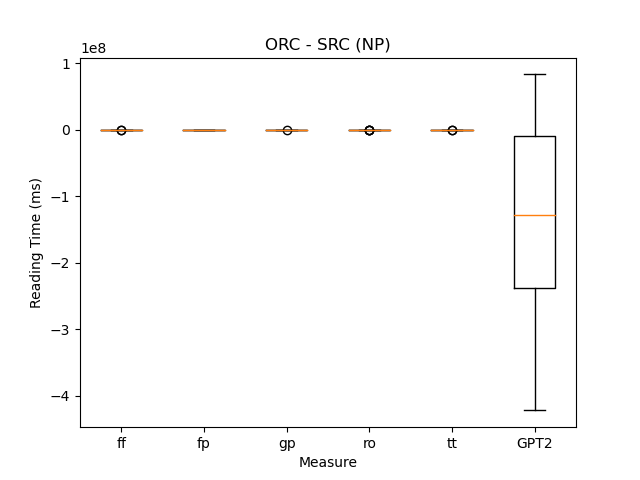
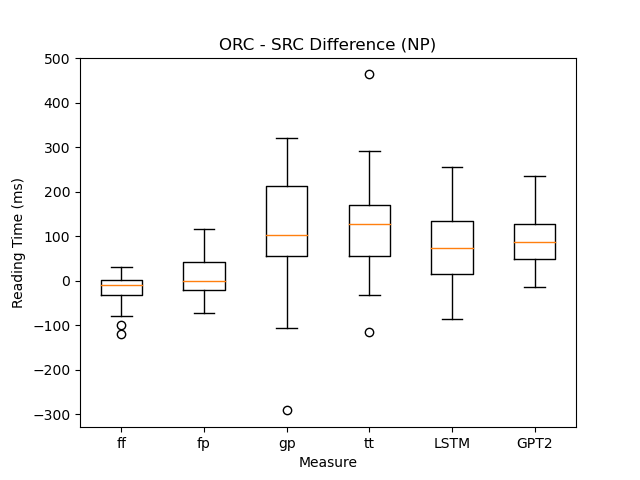
pearson coefficient added

diff --git a/utils/graph_utils.py b/utils/graph_utils.py
@@ -2,8 +2,10 @@ from tkinter import Y
 import matplotlib.pyplot as plt
 import numpy as np
 import json 
+from scipy.stats.stats import pearsonr   
 
-measurements = ['ff', 'fp', 'gp', "ro", 'tt', 'GPT2']
+measurements = ['ff', 'fp', 'gp', "ro", 'tt']
+lms = ['LSTM', 'GPT2']
 
 def plot_bar_graph(labels, title, measurements, men_means, women_means):
 
@@ -32,7 +34,6 @@ def print_bar_graph(segment_type):
     women_means = [25, 32, 34, 20, 25]
     plot_bar_graph(labels, title, measurements, men_means, women_means)
 
-
 def plot_box_and_whisker(labels, data, title, save_location=None):
     fig, ax = plt.subplots()
     plt.title(title)
@@ -45,52 +46,57 @@ def plot_box_and_whisker(labels, data, title, save_location=None):
     plt.show()
 
 def print_box_and_whisker(segment_type):
-    data = json.load(open("data/augmented_data.json"))
-    # measurements = [key for key in data["ORC"]["1"][segment_type].keys() if key != "ro"]
-    # print(measurements)
+    data = json.load(open("data/augmented_data.json"), )
+    
     graph_data = []
-    for measure in measurements:
+    measures = [m for m in measurements + lms if m !=  "ro"]
+    for measure in measures:
         values = [data["ORC"][item][segment_type][measure]-data["SRC"][item][segment_type][measure] for item in data["ORC"]]
-        graph_data.append(values if measure != "GPT2" else [val*20000000 for val in values])
-    title = f"ORC - SRC ({segment_type})"
+        if measure in ["LSTM", "GPT2"]:
+            values = np.array(values) * 100
+        graph_data.append(values)
+    title = f"ORC - SRC Difference ({segment_type})"
     save_location = f"plots/ORC-SRC({segment_type})_box_and_whisker"
-    plot_box_and_whisker(measurements, graph_data, title, save_location)
+    plot_box_and_whisker(measures, graph_data, title, save_location)
 
 
 def plot_scatterplots(title, lm, x_data, y_data, plot_titles,  save_location=None):
     fig, axs = plt.subplots(1, 5, figsize=(15, 5))
     plt.suptitle(title)
-    axs[0].set_ylabel(f'{lm} Surprisal Difference')
-    axs[0].set_xlabel('Reading Time Difference (ms)')
+    axs[0].set_ylabel(f'{lm} Surprisal')
     for i in range(len(plot_titles)):
         axs[i].scatter(x_data[i], y_data)
         axs[i].set_title(plot_titles[i])
-        axs[i].set_xlabel("Reading Time Difference (ms)")
+        axs[i].set_xlabel("Reading Time (ms)")
+        #obtain m (slope) and b(intercept) of linear regression line
+        m, b = np.polyfit(x_data[i], y_data, 1)
+        correlation = np.round(pearsonr(x_data[i], y_data)[0], 3)
+        axs[i].plot(x_data[i], m*np.array(x_data[i])+b, color='lightblue', label=f"correlation = {correlation}")
+        axs[i].legend()
 
     if save_location:
         plt.savefig(save_location)
     plt.show()
 
 def print_scatterplots(segment_type, lm):
-    title = f"ORC-SRC ({segment_type})"
+    title = f"ORC-SRC Difference ({segment_type})"
     save_location = f"plots/ORC-SRC({segment_type})_scatter"
     x_data, y_data = [], []
     data = json.load(open("data/augmented_data.json"))
-    x_measurements = [measure for measure in measurements if (measure != lm and measure != "ro")]
+    x_measurements = [measure for measure in measurements if (measure != lm)]
     # items = [item for item in data["ORC"].keys() if item != "14"]
     items = data["ORC"]
     for measure in x_measurements:
         values = [data["ORC"][item][segment_type][measure]-data["SRC"][item][segment_type][measure] for item in items]
         x_data.append(values)
     y_data = [data["ORC"][item][segment_type][lm]-data["SRC"][item][segment_type][lm] for item in items]
+    # pearsonr(x, y)
     plot_scatterplots(title, lm, x_data, y_data, x_measurements, save_location=save_location)
     
 if __name__ == "__main__":
-    # print_box_and_whisker("NP")
-    # print_box_and_whisker("verb")
-    # print_bar_graph("NP")
-    # print_bar_graph("verb")
-    # print_scatterplots("NP","GPT2")
-    # print_scatterplots("verb", "GPT2")
-    print_scatterplots("NP","LSTM")
-    print_scatterplots("verb", "LSTM")
+#     for region in ["NP", "verb"]:
+#         print_box_and_whisker(region)
+        
+    for region in ["NP", "verb"]:
+        for lm in lms:
+            print_scatterplots(region,lm)

diff --git a/utils/lstm_utils.py b/utils/lstm_utils.py
@@ -13,20 +13,24 @@ torch.manual_seed(50360)
 np.random.seed(50360)
 torch.backends.cudnn.deterministic = True
 torch.backends.cudnn.benchmark = False
+cuda = False
 
 def set_up_model():
     torch.cuda.empty_cache()
     # Load Pre-trained Model
     fn = 'colorlessgreenRNNs/src/hidden650_batch128_dropout0.2_lr20.0.pt'
     if torch.cuda.is_available():
+        cuda = True
         torch.device('cuda')
         model_ = torch.load(fn)
     else:
+        cuda = False
         torch.device('cpu')
         model_ = torch.load(fn, map_location=torch.device('cpu'))
     model = RNNModel("LSTM", 50001, 650, 650, 2, 0.2, False)
     model.load_state_dict(model_.state_dict())
-    model = model.cuda()
+    if cuda:
+        model = model.cuda()
 
     data_path = "colorlessgreenRNNs/data/lm/English"
     dictionary = dictionary_corpus.Dictionary(data_path)
@@ -52,7 +56,9 @@ def get_query_surprisal(intro, query, model, dictionary):
     tokenized_query = tokenize(query, dictionary)
     query_token_surprisals = []
     for query_token in tokenized_query:
-        input = torch.tensor(tokenized_intro, dtype=torch.long).cuda()
+        input = torch.tensor(tokenized_intro, dtype=torch.long)
+        if cuda:
+            input = input.cuda()
         cur_sentence_output, cur_sentence_hidden = model(input.view(-1, 1), # (sequence_length, batch_size).
                                                 model.init_hidden(1)) # one input at a time, thus batch_size = 1
         next_word_scores = cur_sentence_output[-1].view(-1).cpu().detach()
@@ -61,4 +67,4 @@ def get_query_surprisal(intro, query, model, dictionary):
         query_token_surprisals.append(token_surprisal)
         tokenized_intro.append(query_token)
     query_surprisal = np.mean(query_token_surprisals)
-    return query_surprisal
+    return float(query_surprisal)

diff --git a/run_models.py b/run_models.py
@@ -26,10 +26,10 @@ with open(fname, "w+") as f:
 def add_model_measures(model_type, data):
     if model_type == "GPT2":
         model, dictionary = None, None
-        run_model = gpt_utils.get_query_surprise
+        run_model = gpt_utils.get_query_surprisal
     elif model_type == "LSTM":
         model, dictionary = lstm_utils.set_up_model()
-        run_model = lstm_utils.get_query_surprise
+        run_model = lstm_utils.get_query_surprisal
     else:
         raise Exception("invalid model type")
 

diff --git a/utils/gpt_utils.py b/utils/gpt_utils.py
@@ -28,6 +28,4 @@ def get_query_surprisal(intro, query, model=None, dictionary=None):
         query_token_surprisals.append(token_surprisal)
         tokenized_intro = torch.tensor(np.array([np.append(tokenized_intro, query_token)]))
     query_surprisal = np.mean(query_token_surprisals)
-    return query_surprisal
-
-get_query_surprisal('Hello my name is', 'Rachel Elizabeth')
+    return float(query_surprisal)
